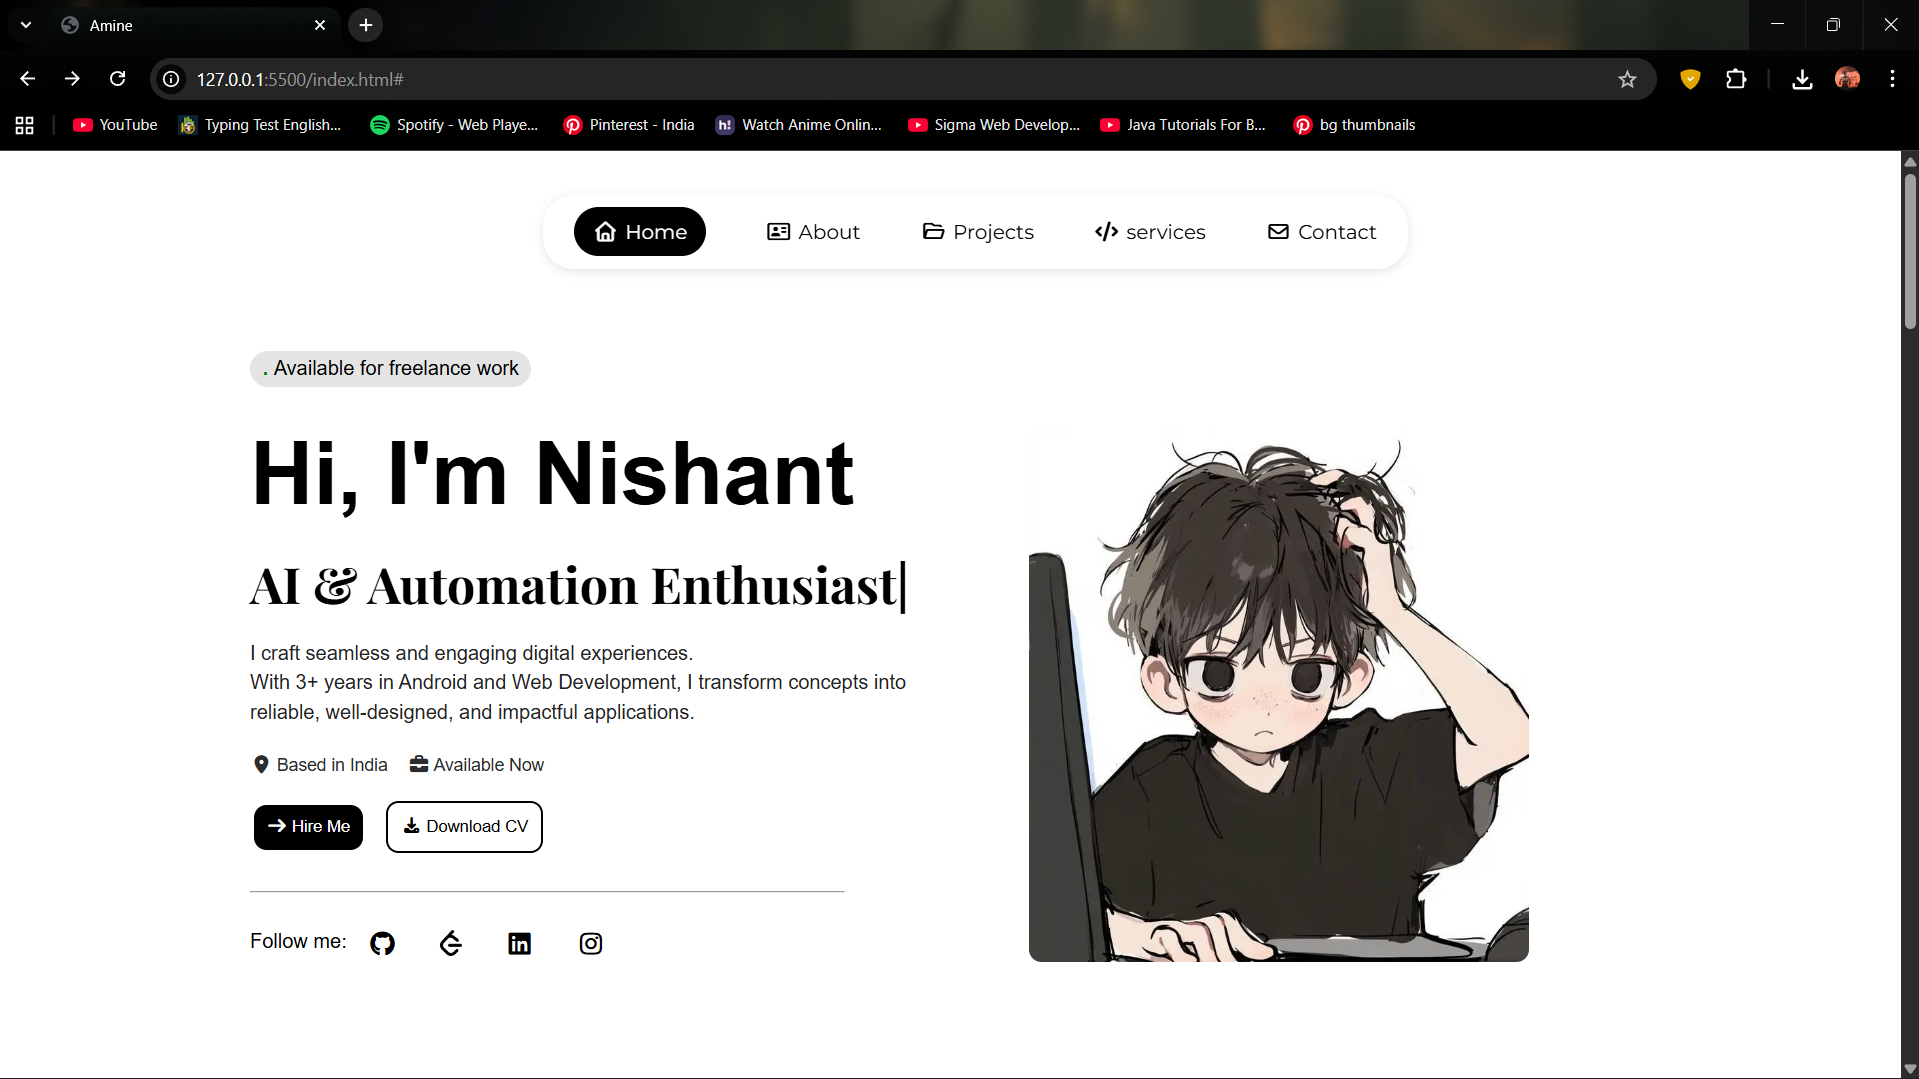
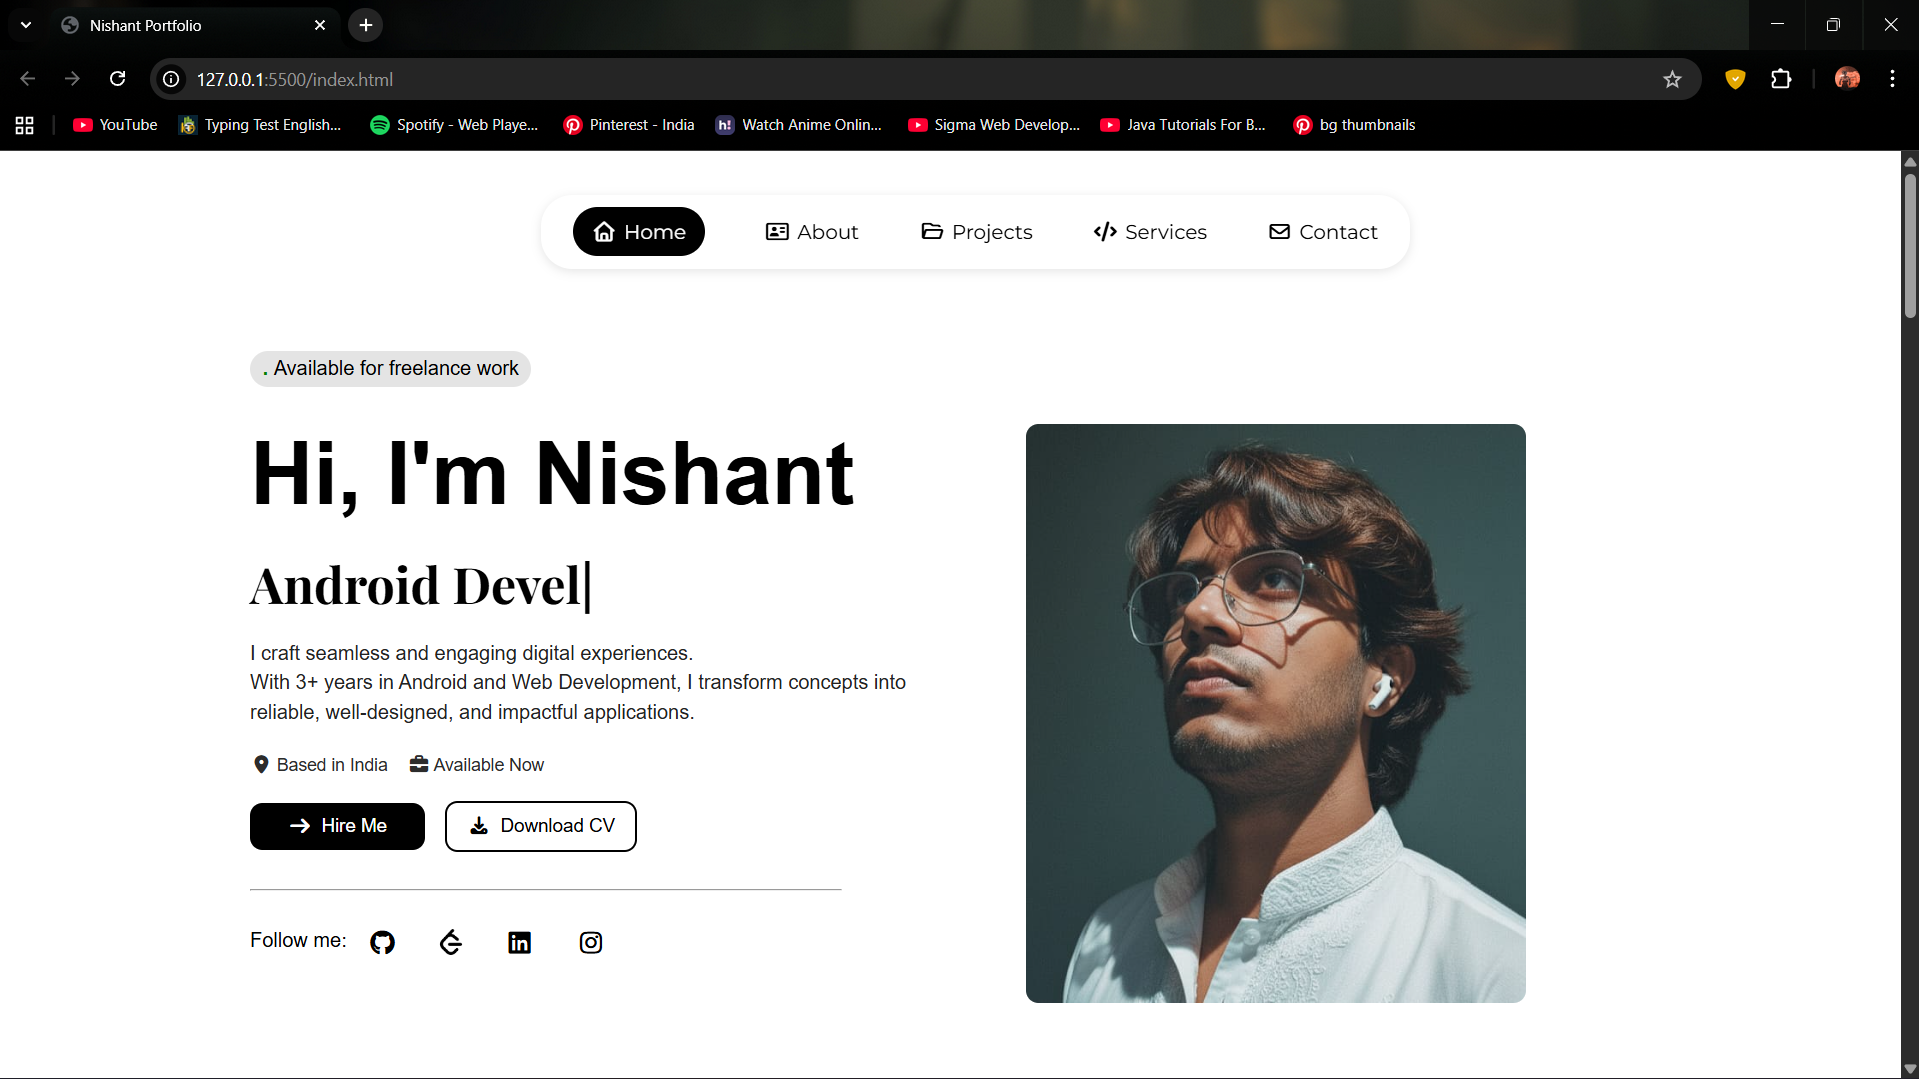
few changes

diff --git a/index.html b/index.html
@@ -111,7 +111,7 @@
           </div>
         </div>
       </div>
-      <img src="images/img2.jpg" alt="">
+      <img src="images/nishant.jpg" alt="">
     </div>
   </section>
   <!-- fine home  -->
@@ -157,7 +157,7 @@
           </div>
         </div>
       </div>
-      <img src="images/nishant.jpg" alt="">
+      <img src="images/img2.jpg" alt="">
     </div>
   </section>
   <section class="project" id="project">
@@ -186,7 +186,7 @@
           <a href="#">SMTP</a>
         </div>
         <div class="btns">
-          <a href="https://github.com/yourusername/jobease" target="_blank" class="btn">
+          <a href="https://github.com/kazuaki83358/Automated-Job-Finder.git" target="_blank" class="btn">
             <i class="fab fa-github"></i> GitHub
           </a>
         </div>
@@ -206,7 +206,7 @@
           <a href="#">UI/UX</a>
         </div>
         <div class="btns">
-          <a href="https://github.com/yourusername/portfolio" target="_blank" class="btn">
+          <a href="https://github.com/kazuaki83358/My-portfolio-site.git" target="_blank" class="btn">
             <i class="fab fa-github"></i> GitHub
           </a>
         </div>
